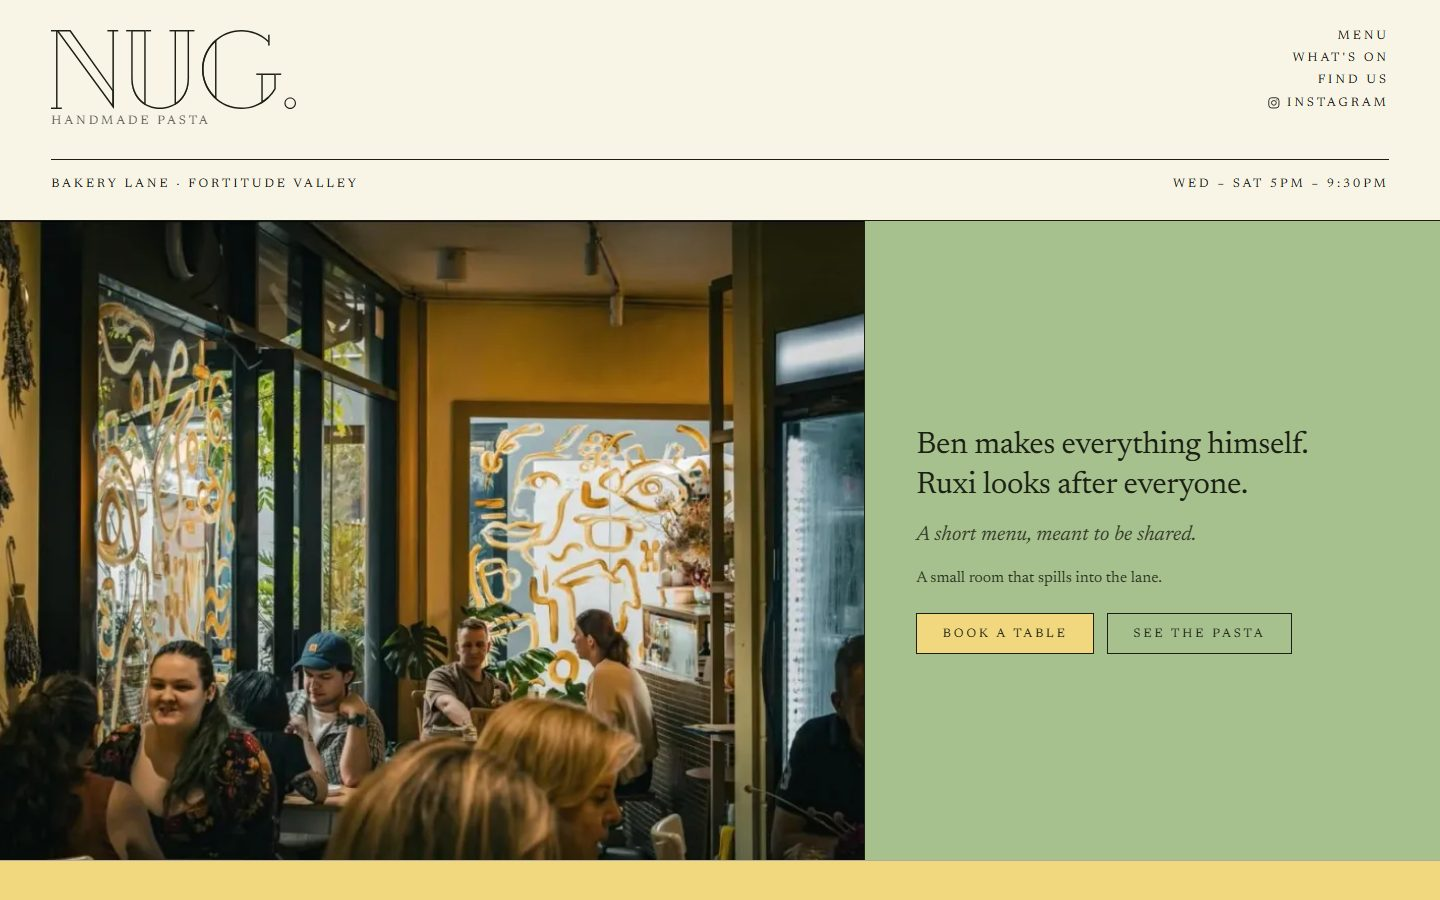
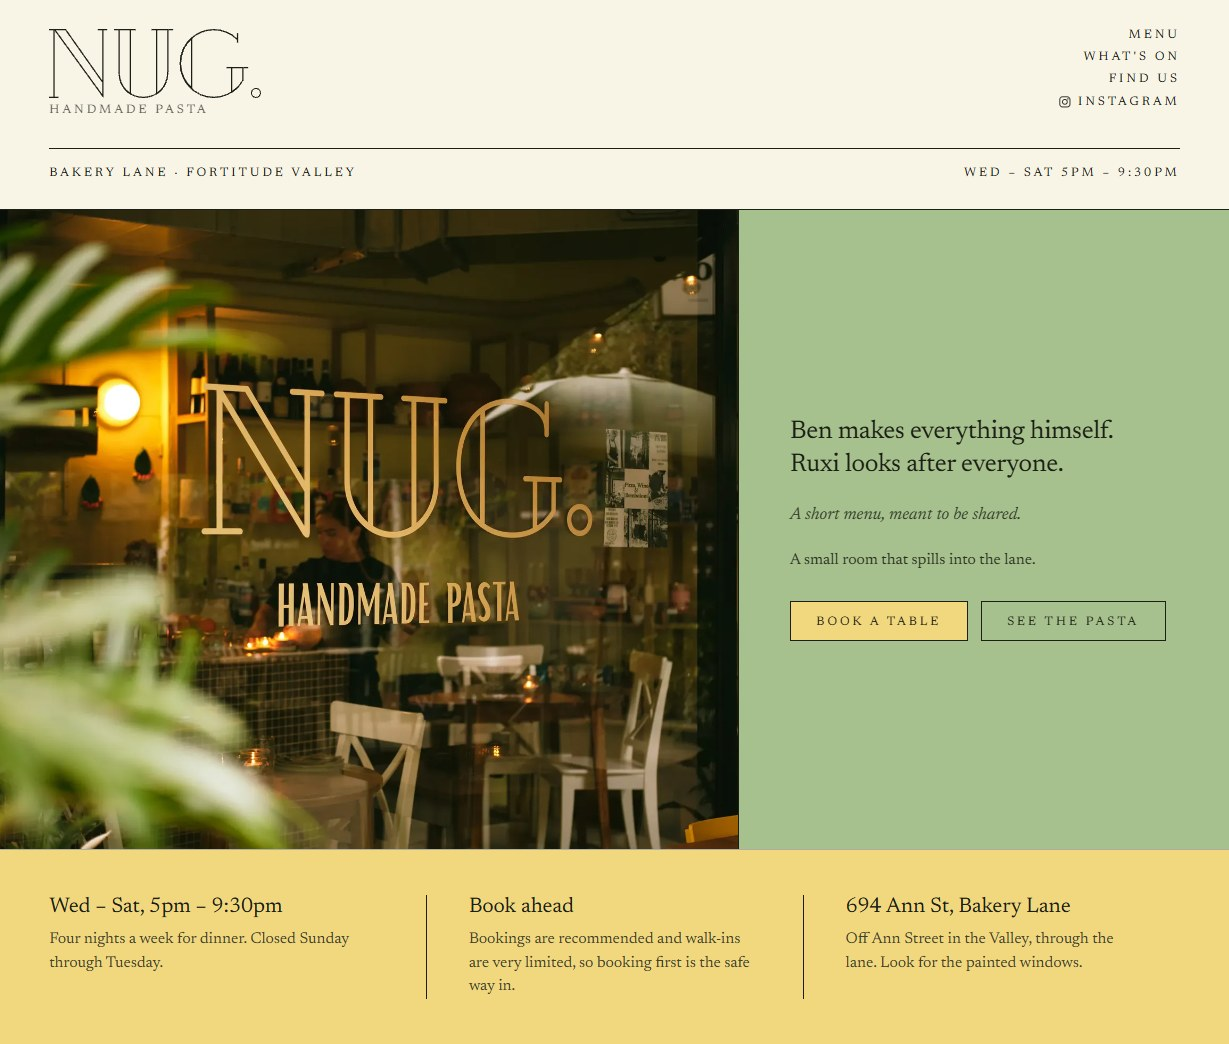
hero-streams: walking clip on why-legs, new Aptium and Nug media, Software sections

diff --git a/src/seed/content.ts b/src/seed/content.ts
@@ -31,7 +31,7 @@ const content: SeedContent = {
   assets: {
     'websites/nug-row': {
       file: 'websites/nug-row.jpg',
-      alt: 'The Nug General Store website: the NUG. wordmark above a photograph of a full dining room with a painted mural.',
+      alt: 'The Nug General Store website: the NUG. wordmark over a photograph of the shopfront window, its gold lettering reading “Handmade pasta”.',
     },
     'built/huntsman-walk': {
       file: 'built/huntsman-walk.mp4',
@@ -43,7 +43,7 @@ const content: SeedContent = {
     },
     'built/nug': {
       file: 'built/nug.jpg',
-      alt: 'The Nug General Store site: the wordmark on cream above a photograph of a full dining room with yellow walls and a line-drawn mural, beside a sage panel reading “Ben makes everything himself. Ruxi looks after everyone.”',
+      alt: 'The Nug General Store website: the NUG. wordmark over a photograph of the shopfront window, its gold lettering reading “Handmade pasta”, beside a sage panel reading “Ben makes everything himself. Ruxi looks after everyone.”',
     },
     'built/snug': {
       file: 'built/snug.jpg',
@@ -129,10 +129,6 @@ const content: SeedContent = {
       file: 'hero/hero-team.jpg',
       alt: 'Simon, Craig and Ronan in V Source shirts against a wall of jasmine.',
     },
-    'robotics/huntsman-terrain-trials': {
-      file: 'robotics/huntsman-terrain-trials.jpg',
-      alt: 'Four simulated terrain trials of The Huntsman: a 15° slope it walks up and down (3.5 m), mixed ground where it veers 24° and tilts 22° (2.9 m), 50 mm steps where it stalls at the first (0.8 m), and 80 mm rubble where it snags and veers 27° (0.6 m).',
-    },
     'robotics/huntsman-model': {
       file: 'robotics/huntsman-model.jpg',
       alt: 'A CAD render of The Huntsman showing its eight legs, servos and central payload bay.',
@@ -181,9 +177,9 @@ const content: SeedContent = {
           },
           pending: false,
           media: {
-            upload: 'photos/pointing',
+            upload: 'built/training-professionals',
             poster: null,
-            alt: 'Craig points to a line of code on a monitor while Simon looks on.',
+            alt: 'Two screens from the Training Professionals platform: the live assessment editor, and a marking view comparing a candidate’s answers with the answer guide.',
           },
         },
         {
@@ -205,9 +201,9 @@ const content: SeedContent = {
           },
           pending: false,
           media: {
-            upload: 'built/training-professionals',
+            upload: 'built/sauce',
             poster: null,
-            alt: 'Two screens from the Training Professionals platform: the live assessment editor, and a marking view comparing a candidate’s answers with the answer guide.',
+            alt: 'A sheet of SAUCE components — inputs, buttons, a table and a dropdown — on a dark theme.',
           },
         },
       ],
@@ -257,9 +253,9 @@ const content: SeedContent = {
           },
           pending: false,
           media: {
-            upload: 'robotics/huntsman-terrain-trials',
-            poster: null,
-            alt: 'Four simulated terrain trials of The Huntsman: a 15° slope it walks up and down (3.5 m), mixed ground where it veers 24° and tilts 22° (2.9 m), 50 mm steps where it stalls at the first (0.8 m), and 80 mm rubble where it snags and veers 27° (0.6 m).',
+            upload: 'built/huntsman-walk',
+            poster: 'built/huntsman-walk-poster',
+            alt: 'The Huntsman, an eight-legged black robot, walking across a timber floor.',
           },
         },
         {
@@ -363,7 +359,7 @@ const content: SeedContent = {
           media: {
             upload: 'websites/nug-row',
             poster: null,
-            alt: 'The Nug General Store website: the NUG. wordmark above a photograph of a full dining room with a painted mural.',
+            alt: 'The Nug General Store website: the NUG. wordmark over a photograph of the shopfront window, its gold lettering reading “Handmade pasta”.',
           },
         },
         {
@@ -821,6 +817,7 @@ const content: SeedContent = {
       'at-the-desk.jpg',
       'snug-door.jpg',
       'huntsman-top.jpg',
+      'huntsman-terrain-trials.jpg',
     ],
   },
 }

diff --git a/docs/briefs/hero-streams.log.md b/docs/briefs/hero-streams.log.md
@@ -1,0 +1,90 @@
+# hero-streams — log
+
+5 November. As instructed, only the two "Also" sections were run. The stream
+tiles and fold balance are superseded by `hero-stage.md` and were not built.
+
+## Robotics `why-legs`
+
+- The section's media is now `built/huntsman-walk` with poster
+  `built/huntsman-walk-poster`. These are the same media documents `/built`
+  uses, so nothing was uploaded twice. Its alt is the one the brief gave.
+- `huntsman-terrain-trials.jpg` was referenced only by that section. It is
+  **deleted**: removed from the seed assets with `git rm`, listed in
+  `retired.media`, and its media document removed by the seed.
+
+## Media fixes
+
+Each file was copied over its seed asset path and swapped into the
+**existing** media document, so every reference keeps the same id:
+
+| media | new file | bytes |
+|---|---|---|
+| `logos/partners/aptium` | `aptium-logo.png` (664×224) | 15,437 → 81,161 |
+| `built/nug` | `nug.jpg` (1229×1044) | 136,677 → 163,501 |
+| `websites/nug-row` | `nug-row.jpg` (738×848) | 107,442 → 106,174 |
+| `built/venues-montage` | `venues-montage.jpg` | 199,193 → 190,394 |
+
+Payload saved the files as `aptium-1.png`, `nug-1.jpg` and so on. The seed's
+`byFilename` already matches those names, and a second seed run reported
+`0 created, 0 updated, 0 removed, 45 unchanged`, so no duplicate document was
+made.
+
+**Nug alt text.**
+- `built/nug` takes the brief's text word for word.
+- `websites/nug-row`, on the asset and on the Websites `accessibility`
+  section, takes the same text **without the sage-panel clause**. The row
+  crop (wordmark, address line, shopfront) has no sage panel, so describing
+  one would be false. The text is: *The Nug General Store website: the NUG.
+  wordmark over a photograph of the shopfront window, its gold lettering
+  reading "Handmade pasta".*
+- The montage alt names the five sites but describes none of them, so it is
+  unchanged.
+
+**Software sections.** The first section is now
+`built/training-professionals` and the second is `built/sauce`. Stream
+section images render at their own aspect ratio (`CutPhoto` with the
+intrinsic width and height, and no crop anywhere in `stream.scss`), so both
+are already shown whole. No `fit` field was needed.
+
+**`pointing.jpg` is kept.** Software is no longer using it, but it is still
+the home page's Software "What changes" photo (`stepPhoto`).
+
+## Verify
+
+- `pnpm tsc --noEmit`: clean. `pnpm test:ci`: 635 passed. `pnpm build`: ok.
+- `pnpm lint`: one error, the trailing comma at `next.config.ts:61`. This is
+  the same one as before; the file is Simon's.
+- `/robotics` `why-legs` plays `huntsman-walk.mp4` with its poster, muted.
+  **Pause this clip**, reached by keyboard and pressed with Enter, pauses it,
+  and pressing again resumes it. No terrain image is left on the page.
+  Screenshot: `robotics-why-legs.png`.
+- **Aptium at 2× DPR.** The plate is 348 CSS px wide, and Next serves the
+  640w rendition of the 664px source, so the browser draws it at about 1:1.
+  It is as sharp as the file allows, but **the new PNG is itself soft**: its
+  edges are blurred at native size. It reads as an upscaled raster rather
+  than a true 2× export. A vector (SVG) from Aptium, or the portal's own
+  asset, is the real fix. Screenshot: `aptium-2x.png`.
+- **The new Nug is everywhere it should be.**
+  - `/built/brisbane-venues` shows `nug-1.jpg` in its sites list and
+    `venues-montage-1.jpg` as the montage.
+  - `/` and `/websites` show `nug-row-1.jpg`.
+- **Repeats** (every `img` and video poster, by file, on `/`, the three
+  stream pages, `/built` and `/built/brisbane-venues`):
+  - No photograph repeats on any stream page or on `/built`.
+  - On `/`, the three partner logos appear twice: the fold's "Working with"
+    strip and the partners band. That is by design, not a photo.
+  - ⚠ **Not caught by file name:** on `/`, `hero-software.jpg` (the fold) and
+    `pointing.jpg` (the Software "What changes" row) are **the same shot,
+    cropped differently**. This is the duplicate the brief fixed on
+    `/software`. Until `hero-stage`, the fold showed `hero-software` only
+    during the run. After `hero-stage` its Software band is permanent, so the
+    two sit on the home page for good. Fixing it means choosing a different
+    "What changes" photo for Software, which is a content choice, so it is
+    left for Simon.
+- axe (wcag2a/aa/21aa/22aa) on `/`, `/robotics`, `/software`, `/websites`,
+  `/built` and `/built/brisbane-venues`, light and dark: 12 runs, 0
+  violations.
+
+Screenshots and JSON are in `C:\tmp\hero-streams\`.
+
+STATUS: done

diff --git a/docs/briefs/hero-streams.md b/docs/briefs/hero-streams.md
@@ -1,0 +1,86 @@
+# Brief — hero-streams
+
+**Run next.** Small, fold only. One commit.
+**Repo:** `V Souce Development` · **Branch:** `development` · **Push:**
+`development` only.
+**Read `CLAUDE.md` first.**
+
+(Originally a fold brief; see Superseded.) Simon (5 November, after `review-2`): the fold flows well now, but once the
+slideshow settles on the team photo, there is no real entry point to the three
+streams. The `SOFTWARE · ROBOTICS · WEBSITES` line under the photo reads as a
+caption, not as three ways in.
+
+Where the brief does not match the code, stop and log it.
+
+---
+
+## Superseded (5 November)
+
+The stream tiles and fold balance that were here are **replaced by
+`hero-stage.md`**. Do not build them. Run only the two sections below, then
+`hero-stage.md`.
+
+## Also: the Robotics page's first section image
+
+The terrain-trials strip on `/robotics` (`why-legs`) shows two of the four
+runs **failing** (stalls at 50 mm steps, snags on 80 mm rubble, with red
+badges), right next to copy arguing that legs beat wheels on exactly that
+ground. Replace that section's media with the real walking clip
+(`huntsman-walk.mp4` with `huntsman-walk-poster.jpg`, the same media `/built`
+uses; reuse it, don't upload a duplicate), alt `The Huntsman, an eight-legged black robot, walking across a timber floor.`
+Remove `huntsman-terrain-trials.jpg` from that section and from the seed. Keep
+the media document if anything else references it; otherwise delete it, and
+log which.
+
+## Also: media fixes from Simon's pass (5 November)
+
+Files are in `media-inbox/update/`. **Replace the file on the existing media
+document** in each case (keep its id, so every reference follows), and update
+the seed to match.
+
+1. **Aptium logo is soft.** Replace the `aptium` logo media with
+   `aptium-logo.png` (664×224, transparent, taken from the portal's sign-in
+   screen at 2×). This is the logo only. **No screenshot of the portal goes on
+   the site**, since the screens are under NDA.
+2. **Nug looks nothing like that any more.** The site has been redesigned.
+   Replace:
+   - the `nug` screenshot media with `nug.jpg` (1229×1044, the current
+     homepage). It is used by the `brisbane-venues` `sites` list and anywhere
+     else that references it;
+   - the `nug-row` media with `nug-row.jpg` (738×848: wordmark, address line
+     and the shopfront photo), for the Websites row in "What changes" and the
+     Websites page's first section;
+   - the `venues-montage` media with `venues-montage.jpg` (rebuilt with the new
+     Nug).
+   Update the Nug alt text everywhere it appears to: `The Nug General Store website: the NUG. wordmark over a photograph of the shopfront window, its gold lettering reading “Handmade pasta”, beside a sage panel reading “Ben makes everything himself. Ruxi looks after everyone.”`
+3. **The Software page shows the same photo twice in a row:** the head
+   (`hero-software`) and the first section (`pointing`) are the same shot.
+   Set Software's sections to: first → the Training Professionals composite,
+   second → the SAUCE sheet (both `contain`, never cropped). `pointing.jpg` is
+   then unused by Software. Remove it from `media` and the seed if nothing else
+   references it, and log which.
+
+Verify: the Aptium card is sharp at 2× DPR; Nug's new screenshot shows on
+`/built/brisbane-venues`, in the montage, and in the Websites row; no photo
+appears twice on any one page (check all three stream pages and `/`).
+
+---
+
+## Verify
+
+```bash
+pnpm tsc --noEmit
+pnpm lint
+pnpm test:ci
+pnpm build
+```
+
+1. `/robotics` `why-legs` shows the walking clip, muted, with a working pause.
+2. axe on `/` and `/robotics`, light and dark: 0 violations.
+
+Screenshots go to `C:\tmp\hero-streams\`.
+
+## The log
+
+Append to `docs/briefs/hero-streams.log.md`. Last line exactly one of
+`STATUS: done`, `STATUS: partial`, `STATUS: blocked`.
